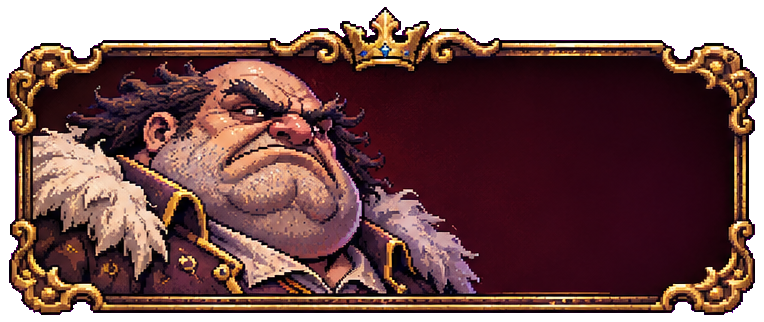
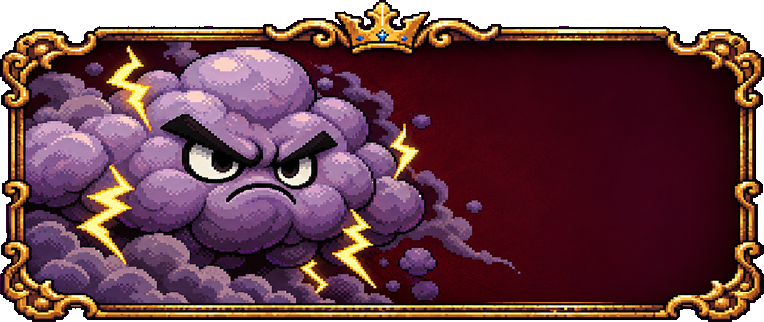
P7: Big Grump boss card shows the storm-cloud Grump (was an unrelated man)
Claude-Session: https://claude.ai/code/session_013g54opDJbSzBZ1hF4NWyGa

diff --git a/tools/slice_r13_c2_p7.py b/tools/slice_r13_c2_p7.py
@@ -1,0 +1,92 @@
+#!/usr/bin/env python3
+"""CONDUCT 2 fix P7 (art quality).
+
+Steps (run after the other slicers):  python3 tools/slice_r13_c2_p7.py [step ...]
+  card_big_grump  art/incoming/c2_p7/card_big_grump.png (image-tool edit of the old
+                  card): the Big Grump storm cloud in the gold boss frame. The old card
+                  showed a bald man in a fur coat that matched nothing in the game.
+  mine_rocks      crispens every mine stone/ore prop (tools/crispen.py): hard alpha,
+                  magenta fringe removed, small palette, 1px dark outline, light unsharp.
+  buildings       crispens the worst-scoring buildings from tools/fuzz_audit.py
+                  (CRISP_BUILDINGS below; footprint and canvas size unchanged).
+Every output file is removed before it is written (art/gen files are hardlinked).
+"""
+import json, os, sys
+sys.path.insert(0, os.path.dirname(__file__))
+import slice_art as S
+from slice_comp import blobs
+import numpy as np
+from PIL import Image
+import crispen as C
+
+
+def _replace(img, group, name):
+    out = os.path.join(S.OUT, group, name + ".png")
+    if os.path.exists(out):
+        os.remove(out)
+    S.save(img, group, name)
+
+
+def card_big_grump():
+    p = os.path.join(S.INC, "c2_p7/card_big_grump.png")
+    if not os.path.exists(p):
+        return
+    rgba = np.asarray(S.load("c2_p7/card_big_grump.png"))
+    b = max(blobs(rgba, merge=3, min_area=5000), key=lambda b: (b[2] - b[0]) * (b[3] - b[1]))
+    im = Image.fromarray(rgba[b[1]:b[3], b[0]:b[2]])
+    # Same size as the other boss cards (764x322, a banner): boss_card draws it
+    # keep-aspect in 250x84 with the title on the right half (a taller card would be
+    # read as a portrait card). The render's frame is a little taller: squash ~15%.
+    im = im.resize((764, 322), Image.LANCZOS)
+    a = np.asarray(im).copy()
+    a[..., 3] = np.where(a[..., 3] > 110, 255, 0)
+    _replace(Image.fromarray(a), "ui", "card_big_grump")
+
+
+MINE_PREFIXES = ("mine_deep_rock_", "mine_dark_rock_", "mine_heart_rock_", "mine_crystal_rock_",
+                 "mine_deep_bigrock_", "mine_dark_bigrock_", "mine_heart_bigrock_", "mine_crystal_bigrock_",
+                 "mine_deep_ore_", "mine_dark_ore_", "mine_heart_ore_", "mine_crystal_ore_", "node_")
+
+
+def mine_rocks():
+    for name in sorted(S.manifest.get("props", {})):
+        if not name.startswith(MINE_PREFIXES):
+            continue
+        p = os.path.join(S.OUT, "props", name + ".png")
+        if not os.path.exists(p):
+            continue
+        im = Image.open(p).convert("RGBA")
+        if C.is_crisp(im):
+            continue  # already done (idempotent)
+        _replace(C.crispen(im), "props", name)
+
+
+# Worst buildings by tools/fuzz_audit.py (docs/FUZZY-ART.md), crispened in place.
+CRISP_BUILDINGS = []
+
+
+def buildings():
+    for name in CRISP_BUILDINGS:
+        p = os.path.join(S.OUT, "buildings", name + ".png")
+        if not os.path.exists(p):
+            continue
+        im = Image.open(p).convert("RGBA")
+        if C.is_crisp(im):
+            continue
+        _replace(C.crispen(im, colors=48, outline=False), "buildings", name)
+
+
+STEPS = [card_big_grump, mine_rocks, buildings]
+
+if __name__ == "__main__":
+    mpath = os.path.join(S.OUT, "manifest.json")
+    S.manifest.update(json.load(open(mpath)))
+    only = sys.argv[1:]
+    for fn in STEPS:
+        if only and fn.__name__ not in only:
+            continue
+        fn(); print("ok", fn.__name__)
+    tmp = mpath + ".tmp"
+    with open(tmp, "w") as fh:
+        json.dump(S.manifest, fh, indent=1, sort_keys=True)
+    os.replace(tmp, mpath)

diff --git a/tools/crispen.py b/tools/crispen.py
@@ -1,0 +1,61 @@
+#!/usr/bin/env python3
+"""Crispen a soft (LANCZOS-downscaled) sprite into clean pixel art, same size.
+
+crispen(img): hard alpha (no half-transparent fringe), magenta spill on the rim
+turned into the dark outline colour, a light unsharp mask, a small palette
+(k-means-ish via PIL median cut on the opaque pixels) and an optional 1px dark
+outline on the silhouette rim. The canvas size and footprint never change.
+Used by tools/slice_r13_c2_p7.py; scored by tools/fuzz_audit.py.
+"""
+import numpy as np
+from PIL import Image, ImageFilter
+from scipy import ndimage
+
+
+def is_crisp(img, colors=48):
+    a = np.asarray(img.convert("RGBA"))
+    al = a[..., 3]
+    if ((al > 0) & (al < 255)).any():
+        return False
+    op = a[al == 255][:, :3]
+    return len(op) == 0 or len(np.unique(op.view(np.dtype((np.void, 3))))) <= colors * 2 + 2
+
+
+def crispen(img, colors=24, outline=True, sharpen=80, alpha_cut=110):
+    img = img.convert("RGBA")
+    a = np.asarray(img).astype(np.int32)
+    m = a[..., 3] >= alpha_cut
+    m = ndimage.binary_opening(m, iterations=1) | (m & ndimage.binary_erosion(m, iterations=0 or 1))
+    rgb = Image.fromarray(a[..., :3].astype(np.uint8))
+    if sharpen:
+        rgb = rgb.filter(ImageFilter.UnsharpMask(radius=1.0, percent=sharpen, threshold=2))
+    c = np.asarray(rgb).astype(np.int32)
+    r, g, b = c[..., 0], c[..., 1], c[..., 2]
+    rim = m & ~ndimage.binary_erosion(m, iterations=1, border_value=0)
+    spill = (np.minimum(r, b) - g > 35)
+    # magenta-ish spill anywhere near the rim: neutralise it
+    near = m & ~ndimage.binary_erosion(m, iterations=2, border_value=0)
+    fix = near & spill
+    c[..., 0] = np.where(fix, np.minimum(r, g + 25), r)
+    c[..., 2] = np.where(fix, np.minimum(b, g + 25), b)
+    # palette from the opaque pixels
+    if m.any():
+        op = c[m].astype(np.uint8)
+        n = len(op)
+        w = int(np.ceil(np.sqrt(n)))
+        tile = np.zeros((w * w, 3), np.uint8)
+        tile[:n] = op
+        tile[n:] = op[0]
+        pal_img = Image.fromarray(tile.reshape(w, w, 3)).quantize(colors=colors, method=Image.Quantize.MEDIANCUT, dither=Image.Dither.NONE)
+        q = np.asarray(Image.fromarray(c.astype(np.uint8)).quantize(palette=pal_img, dither=Image.Dither.NONE).convert("RGB")).astype(np.int32)
+        c = np.where(m[..., None], q, c)
+    if outline:
+        # darken the rim toward a deep version of its own colour (a clean 1px outline)
+        dark = (c * 0.32 + np.array([10, 6, 16]) * 0.68 * 0.5).astype(np.int32)
+        lum = c.sum(-1)
+        c = np.where((rim & (lum > 150))[..., None], dark, c)
+    out = np.zeros_like(a)
+    out[..., :3] = np.clip(c, 0, 255)
+    out[..., 3] = np.where(m, 255, 0)
+    out[~m] = 0
+    return Image.fromarray(out.astype(np.uint8))
